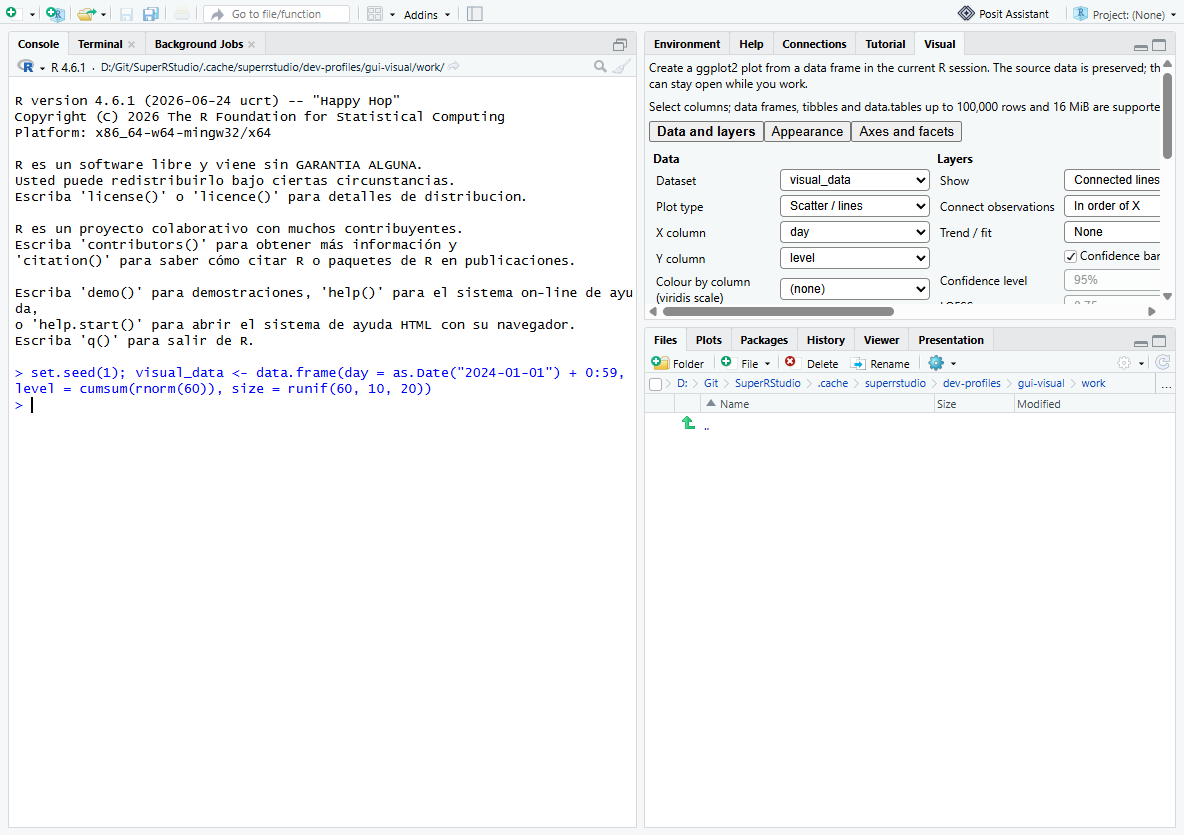
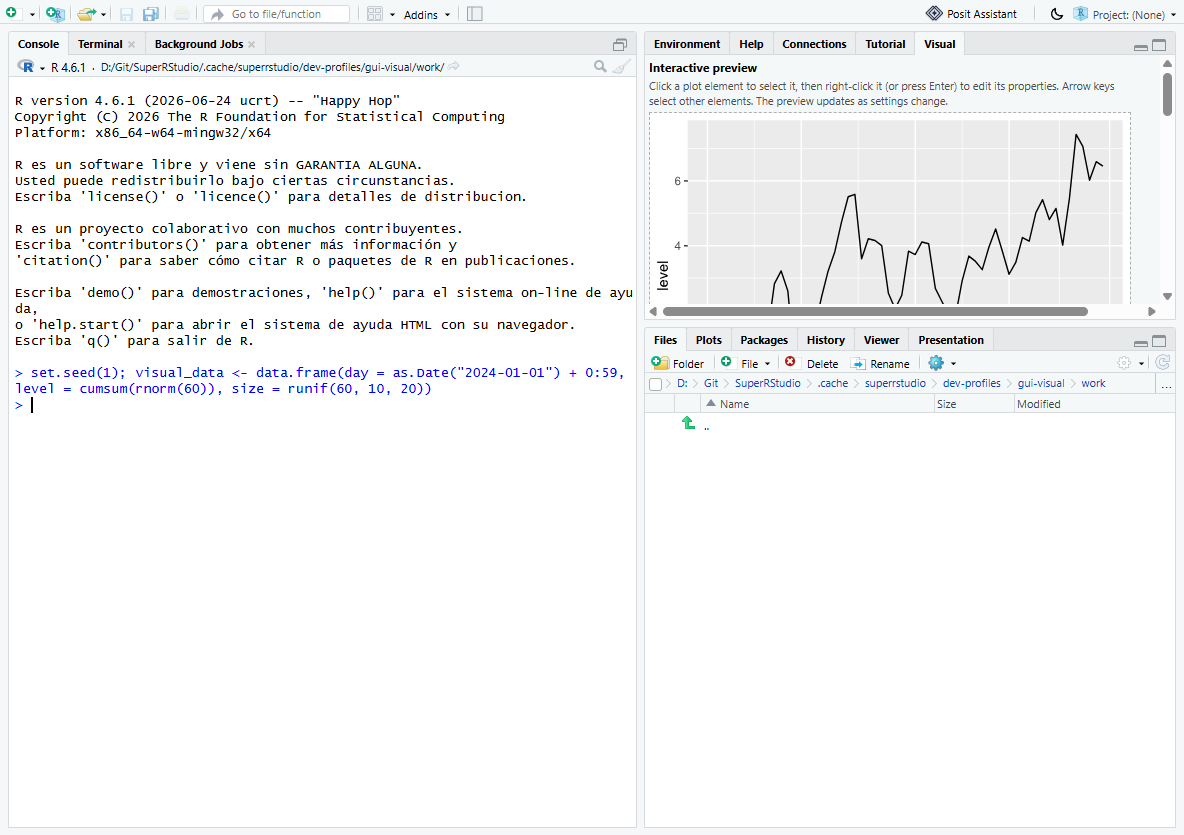
Show the preview first when the plot editor is docked in a narrow pane
The editor's settings and preview columns are a wrapping flex row: in a
docked quarter-screen pane they stack with the preview first; the floating
window and a zoomed pane keep them side by side. The Visual desktop test
checks both arrangements.

Changed region(s): [[0.5312, 0.0623, 1.0, 0.4048], [0.7812, 0.0, 0.9062, 0.0311]]

diff --git a/src/gwt/src/org/rstudio/studio/client/workbench/views/superrstudio/SuperRStudioTheme.java b/src/gwt/src/org/rstudio/studio/client/workbench/views/superrstudio/SuperRStudioTheme.java
@@ -21,6 +21,10 @@ public class SuperRStudioTheme
    public static final String STATUS = "srs-status";
    public static final String BUSY = "srs-busy";
    public static final String ERROR = "srs-error";
+   public static final String COLUMNS = "srs-columns";
+   public static final String SETTINGS_COLUMN = "srs-settings-column";
+   public static final String PREVIEW_COLUMN = "srs-preview-column";
+   public static final String DOCKED = "srs-docked";
 
    public static void ensureInjected()
    {
@@ -39,7 +43,9 @@ public class SuperRStudioTheme
          " border-right-color: transparent; border-radius: 50%; animation: srs-spin 0.8s linear infinite; }\n" +
          "@media (prefers-reduced-motion: reduce) { .srs-dialog .srs-busy::before { animation: none; } }\n" +
          "@keyframes srs-spin { to { transform: rotate(360deg); } }\n" +
-         ".srs-dialog :focus-visible { outline: 2px solid var(--srs-accent); outline-offset: 1px; }\n");
+         ".srs-dialog :focus-visible { outline: 2px solid var(--srs-accent); outline-offset: 1px; }\n" +
+         ".srs-columns { display: flex; flex-wrap: wrap; align-items: flex-start; }\n" +
+         ".srs-docked .srs-preview-column { order: -1; }\n");
    }
 
    // Like upstream's ModalDialogBase: a theme-aware dialog, dark when the IDE

diff --git a/src/gwt/src/org/rstudio/studio/client/workbench/views/superrstudio/ScatterDialog.java b/src/gwt/src/org/rstudio/studio/client/workbench/views/superrstudio/ScatterDialog.java
@@ -130,6 +130,7 @@ public class ScatterDialog extends DialogBox
       dock_.setVisible(!docked && commands_.activateVisual().isVisible());
       float_.setVisible(docked);
       body_.getElement().setAttribute("data-superrstudio-docked", String.valueOf(docked));
+      body_.setStyleName(SuperRStudioTheme.DOCKED, docked);
    }
 
    // the editor's requests answer only while its body is shown (docked or floating)
@@ -550,9 +551,12 @@ public class ScatterDialog extends DialogBox
       preview.add(editSelected_);
       preview.add(heading(messages_.exportHeading()));
       preview.add(createExportPanel());
-      HorizontalPanel main = new HorizontalPanel();
-      // top-aligned: the preview must not move when the settings column grows
-      main.setVerticalAlignment(HasVerticalAlignment.ALIGN_TOP);
+      // two top-aligned columns that wrap when the space is narrower than
+      // both (a docked quarter-screen pane); docked, the preview comes first
+      FlowPanel main = new FlowPanel();
+      main.addStyleName(SuperRStudioTheme.COLUMNS);
+      panel.addStyleName(SuperRStudioTheme.SETTINGS_COLUMN);
+      preview.addStyleName(SuperRStudioTheme.PREVIEW_COLUMN);
       main.add(panel);
       main.add(preview);
       return main;

diff --git a/docs/superrstudio/features/dockable-workspace.md b/docs/superrstudio/features/dockable-workspace.md
@@ -56,7 +56,13 @@ The new code is in `workbench/views/visual/` (`VisualTab`, `VisualPresenter`, `V
 2. **restart** (features on): the layout saved by the first launch, with Visual in tab set 1 and History still in tab set 2, is restored. The editor docks at start-up and lists data created afterwards when the tab is shown again. A defect found here was fixed: an editor docked before any data existed kept an empty list.
 3. **off** (features disabled, with that saved layout): no Visual tab, the commands are invisible, the plot-editor button is hidden, there are no client exceptions, and the layout is preserved.
 
+## Narrow panes
+
+- The editor's two columns wrap when the pane is narrower than both. Docked, the preview comes first and the settings follow below it.
+- The floating window and a zoomed pane (*Zoom Visual*) keep the settings and the preview side by side.
+- The desktop test checks both arrangements.
+
 ## Limitations and next steps
 
-- In a quarter-screen pane the editor's two columns need horizontal scrolling. Zoom the pane (*Zoom Visual*) to use the full window. A layout that adapts to narrow panes belongs with the resizable preview canvas.
+- The settings column has fixed control widths, so a very narrow pane still scrolls horizontally.
 - The length-frequency window is not dockable yet; the same `dock` / `undock` approach applies.
